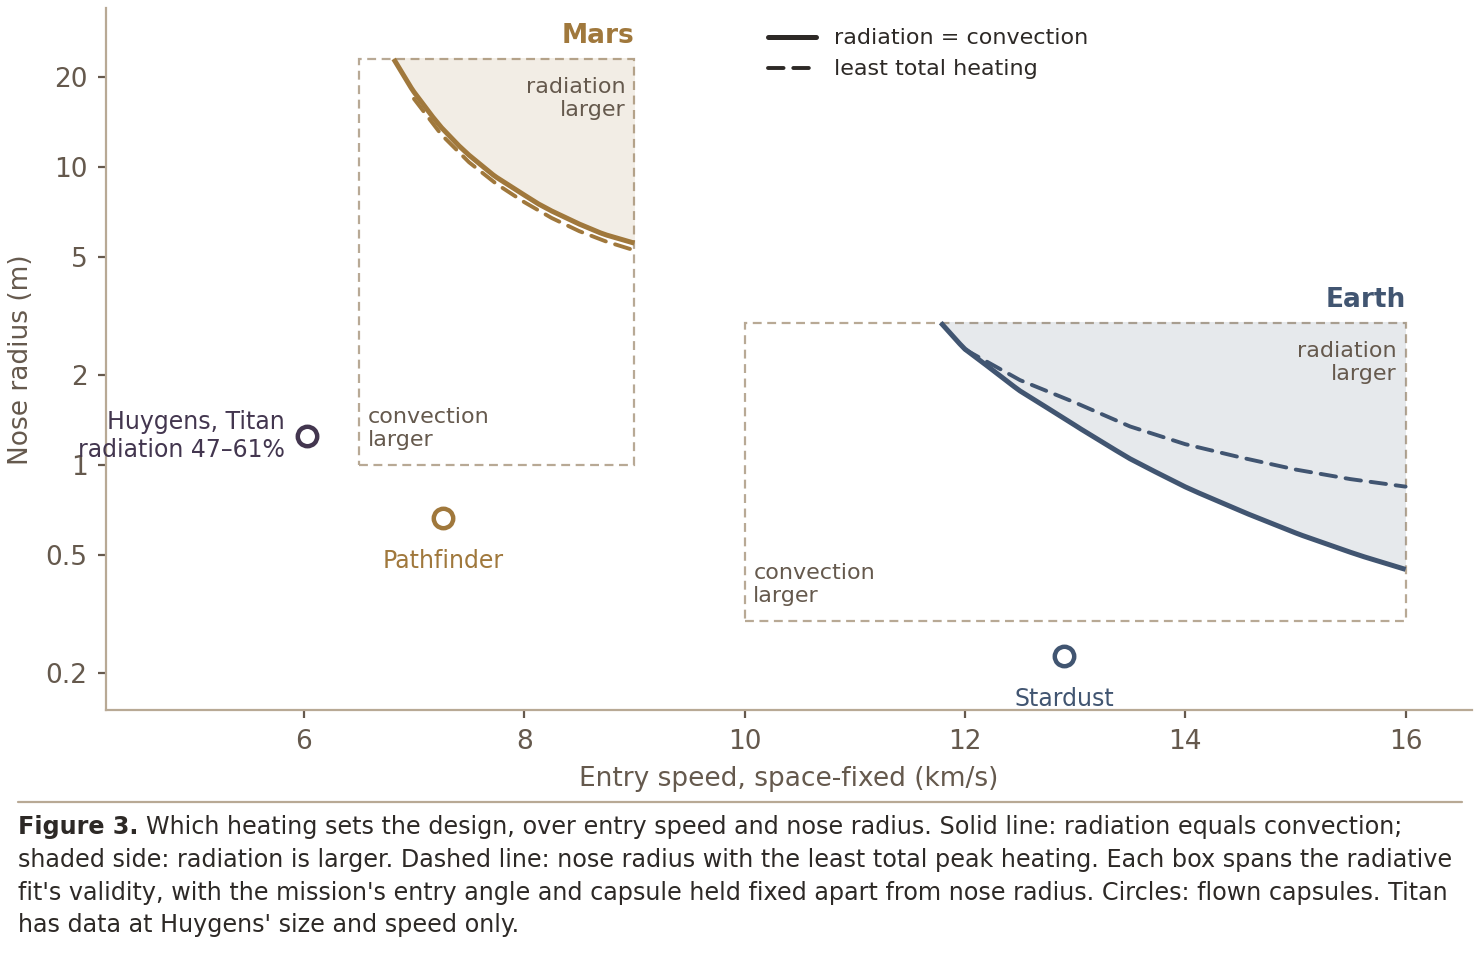
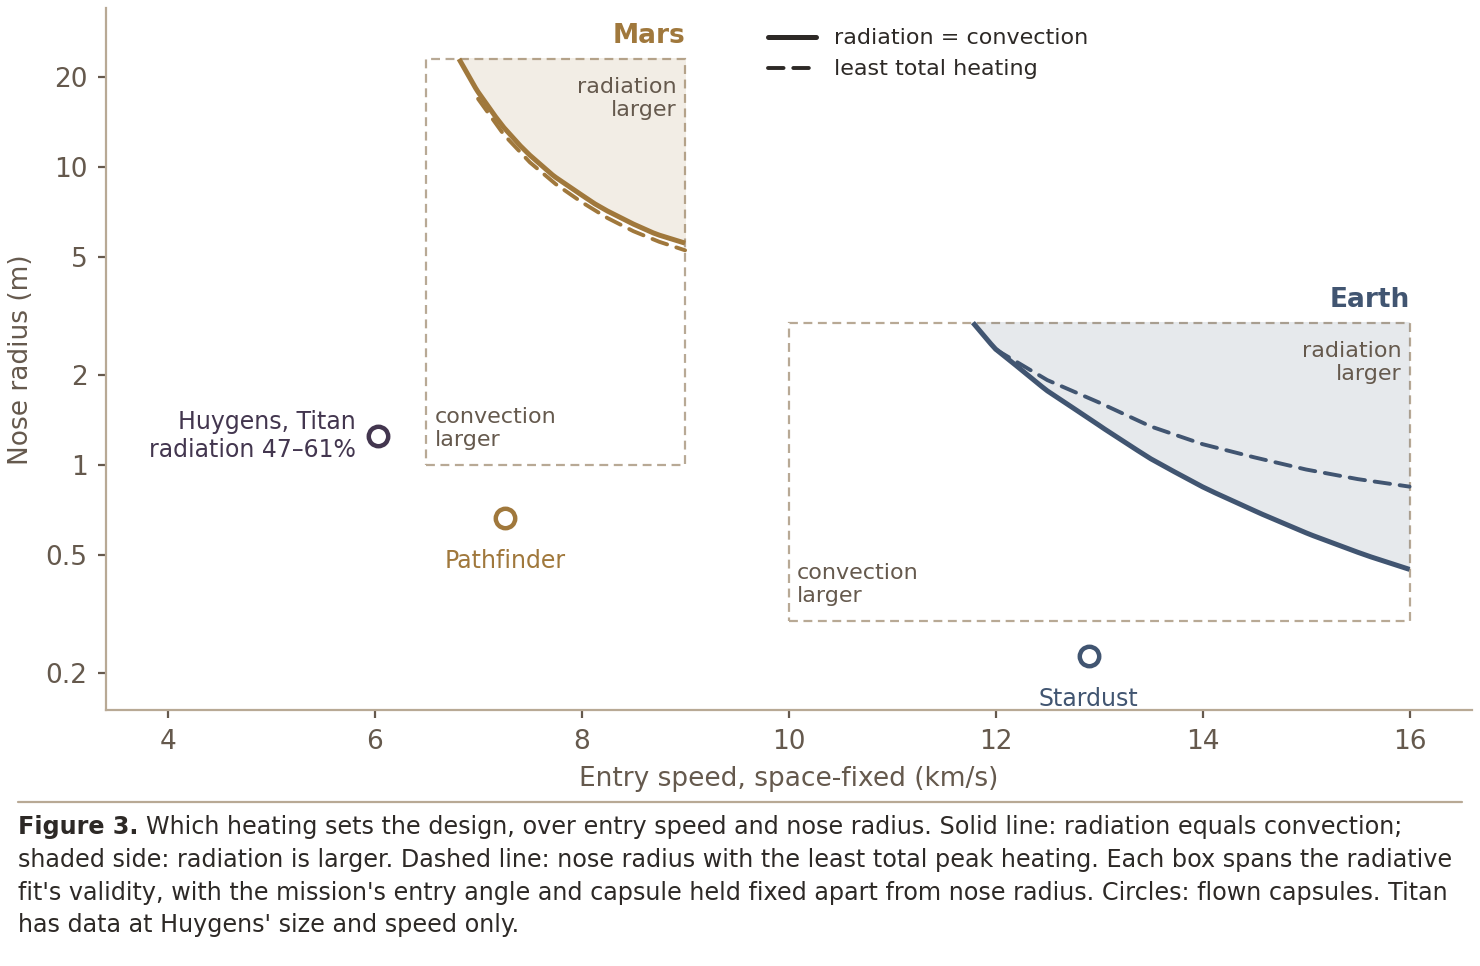
Widen Figure 3 so the Huygens label clears the axis

diff --git a/examples/showcase.py b/examples/showcase.py
@@ -361,7 +361,7 @@ def design_map(worlds, titan, filename, number, caption):
     a.set_yscale("log")
     a.set_yticks([0.2, 0.5, 1, 2, 5, 10, 20], ["0.2", "0.5", "1", "2", "5", "10", "20"])
     a.minorticks_off()
-    a.set(xlim=(4.2, 16.6), ylim=(0.15, 34), xlabel="Entry speed, space-fixed (km/s)",
+    a.set(xlim=(3.4, 16.6), ylim=(0.15, 34), xlabel="Entry speed, space-fixed (km/s)",
           ylabel="Nose radius (m)")
     a.grid(False)
     save(fig, filename)
